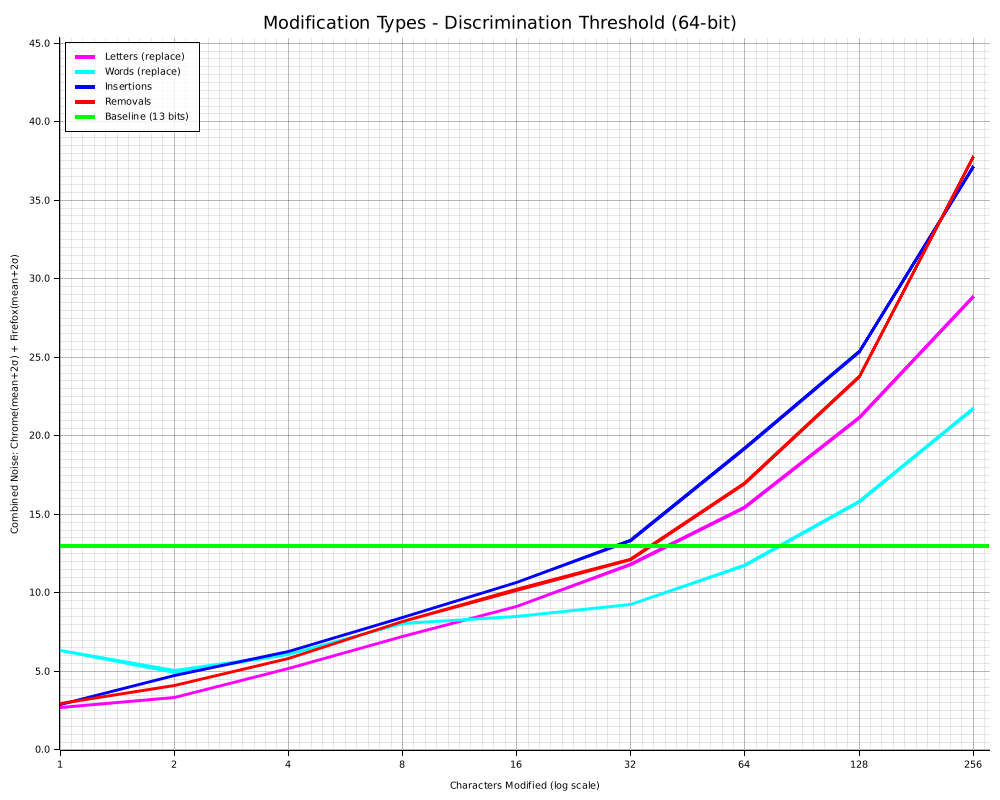
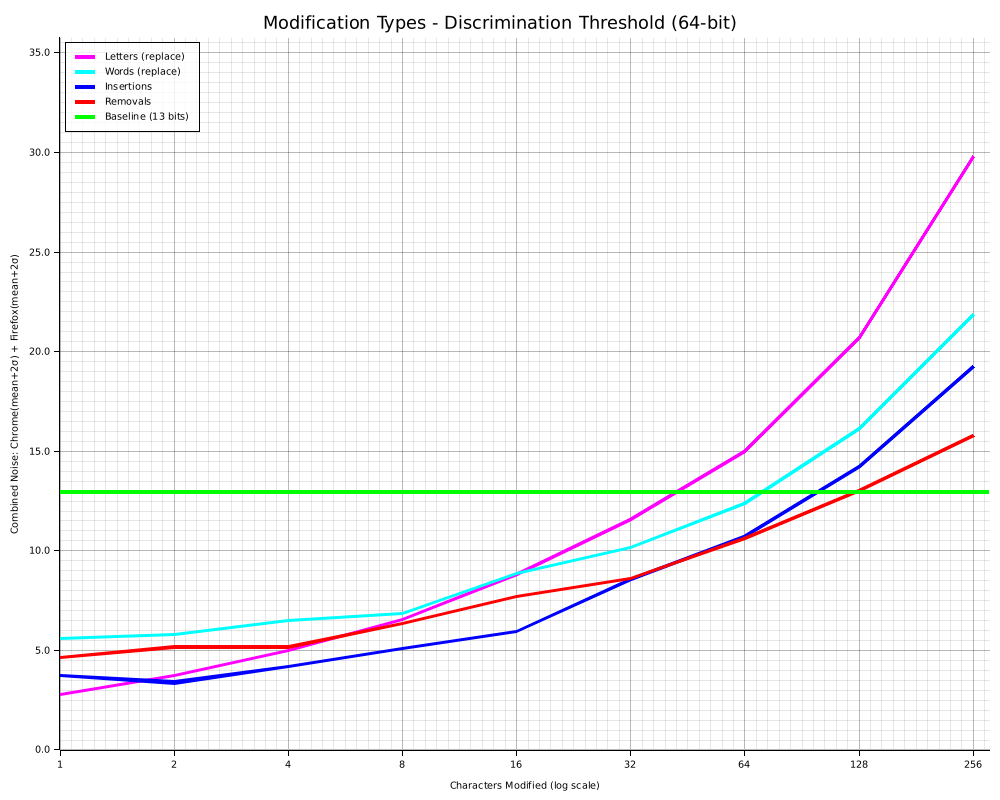
Fix insert/remove to use word-level operations
Changed insertions and removals to operate on whole CSV fields (words)
instead of individual characters. All word-level operations now show
similar locality benefits:

64-bit:  Letters ~32, Words/Insert/Remove ~64 chars
256-bit: Letters ~64, Words/Insert ~128, Remove ~256 chars

Word removals at 256-bit show best tolerance, likely because removing
concentrated regions is less disruptive to nilsimsa than scattered changes.

Changed region(s): [[0.031, 0.0625, 0.992, 0.9375], [0.031, 0.125, 0.062, 0.1562], [0.031, 0.0312, 0.062, 0.0625]]

diff --git a/src/main.rs b/src/main.rs
@@ -422,34 +422,98 @@ fn randomly_modify_words(input: &str, target_chars: usize) -> String {
     chars.into_iter().collect()
 }
 
-/// Randomly insert N characters at random positions
-fn randomly_insert_chars(input: &str, n: usize) -> String {
+/// Randomly insert new fields (words) until we've added ~N characters
+fn randomly_insert_chars(input: &str, target_chars: usize) -> String {
     let mut rng = rand::thread_rng();
     let mut chars: Vec<char> = input.chars().collect();
+    let mut chars_added = 0;
 
-    for _ in 0..n {
-        let idx = rng.gen_range(0..=chars.len());
-        let new_char = rng.gen_range(b'a'..=b'z') as char;
-        chars.insert(idx, new_char);
+    let fields = find_csv_fields(&chars);
+    if fields.is_empty() {
+        return input.to_string();
+    }
+
+    while chars_added < target_chars {
+        // Pick a random position between fields to insert
+        let insert_after_field = rng.gen_range(0..fields.len());
+        let insert_pos = fields[insert_after_field].1; // end of that field
+
+        // Generate a random word (3-8 chars)
+        let word_len = rng.gen_range(3..=8);
+        let new_word: String = (0..word_len)
+            .map(|_| rng.gen_range(b'a'..=b'z') as char)
+            .collect();
+
+        // Insert ", newword" at the position
+        let insertion: Vec<char> = format!(", {}", new_word).chars().collect();
+
+        // Insert the characters
+        for (i, c) in insertion.into_iter().enumerate() {
+            chars.insert(insert_pos + i, c);
+        }
+
+        chars_added += word_len;
+
+        // Recalculate field positions since we modified the string
+        // (simplified: just track chars added, don't re-parse every time)
+        if chars_added >= target_chars {
+            break;
+        }
     }
 
     chars.into_iter().collect()
 }
 
-/// Randomly remove N characters from random positions (skip structural chars)
-fn randomly_remove_chars(input: &str, n: usize) -> String {
+/// Randomly remove entire fields (words) until we've removed ~N characters
+fn randomly_remove_chars(input: &str, target_chars: usize) -> String {
     let mut rng = rand::thread_rng();
     let mut chars: Vec<char> = input.chars().collect();
+    let mut chars_removed = 0;
 
-    let mut removed = 0;
-    while removed < n && chars.len() > 1 {
-        let idx = rng.gen_range(0..chars.len());
-        // Skip structural characters
-        if matches!(chars[idx], ',' | '"' | ':' | '[' | ']' | '{' | '}') {
+    let fields = find_csv_fields(&chars);
+    if fields.is_empty() {
+        return input.to_string();
+    }
+
+    let mut removed_indices = std::collections::HashSet::new();
+
+    while chars_removed < target_chars && removed_indices.len() < fields.len() {
+        // Pick a random field to remove
+        let field_idx = rng.gen_range(0..fields.len());
+        if removed_indices.contains(&field_idx) {
             continue;
         }
-        chars.remove(idx);
-        removed += 1;
+        removed_indices.insert(field_idx);
+
+        // We need to recalculate positions since we're modifying
+        let current_fields = find_csv_fields(&chars);
+        if field_idx >= current_fields.len() {
+            continue;
+        }
+
+        let (start, end) = current_fields[field_idx];
+        let field_len = end - start;
+
+        // Find the comma before this field to remove cleanly ", field"
+        let remove_start = if start >= 2 && chars.get(start - 2) == Some(&',') {
+            start - 2
+        } else if start >= 1 && chars.get(start - 1) == Some(&',') {
+            start - 1
+        } else {
+            start
+        };
+        let remove_end = end;
+
+        if remove_start >= remove_end || remove_end > chars.len() {
+            continue;
+        }
+
+        // Remove the characters (in reverse to maintain indices)
+        for i in (remove_start..remove_end).rev() {
+            chars.remove(i);
+        }
+
+        chars_removed += field_len;
     }
 
     chars.into_iter().collect()
